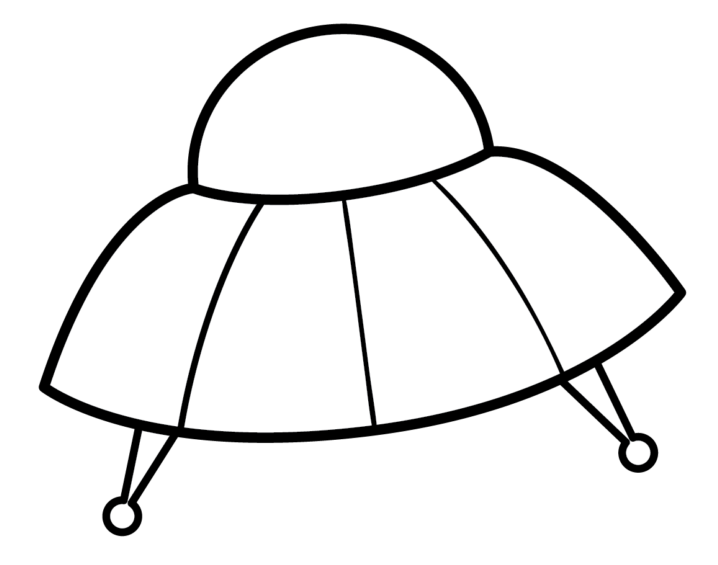
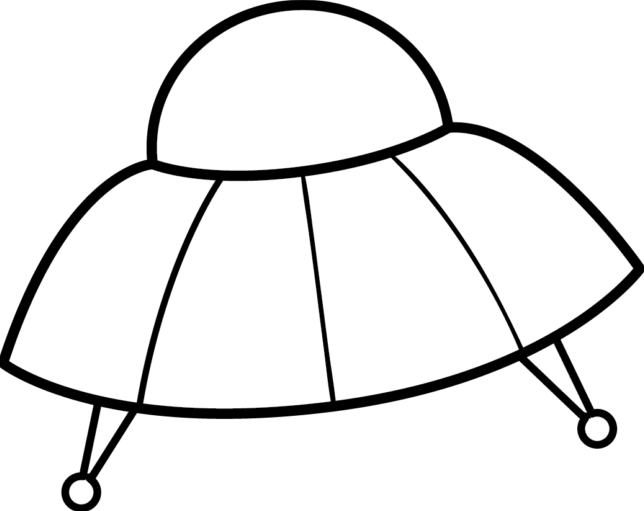
fa 4 e 5 a funcionar com rato

Changed region(s): [[0.0, 0.0, 1.0, 1.0]]

diff --git a/ar_paint.py b/ar_paint.py
@@ -1,12 +1,53 @@
 #!/usr/bin/python3
 import numpy as np
 import cv2
+import argparse
 
 clicking = False
 color = (0, 0, 255) # BGR
-painting = np.ones((565, 718, 3)) * 255  # start with everything white
+painting = np.ones((550, 700, 3)) * 255  # start with everything white
 
 
+# obtain a numbered inverted image, labels and label-color matches
+def load_coloring_image():
+    cImage = cv2.imread("./images/ovni.png", cv2.IMREAD_GRAYSCALE)
+    
+    ret, thresh = cv2.threshold(cImage,0,255,cv2.THRESH_BINARY+cv2.THRESH_OTSU)
+    
+    # use connectedComponentWithStats to find the white areas
+    connectivity = 4
+    output = cv2.connectedComponentsWithStats(thresh, connectivity, cv2.CV_32S)
+
+    num_labels = output[0] # number of labels / areas
+    labels = output[1] # label matrix
+    stats = output[2] # statistics
+    centroids = output[3] # centroid matrix
+    
+    # associate a label with a color
+    colors = [(0, 0, 255), (0, 255, 0), (255, 0, 0)]
+    labelColors = dict()
+    
+    height, width = cImage.shape
+    for i in range(height):
+        for j in range(width):
+            if labels[i][j] not in labelColors.keys():
+                if thresh[i][j] == 0:
+                    labelColors[labels[i][j]] = (0, 0, 0)
+                else:
+                    labelColors[labels[i][j]] = colors[labels[i][j]%3]
+    
+    # write the numbers on the image
+    fontScale = (width * height) / (800 * 800)
+    for i in range(0, len(centroids)):
+        if labelColors[i] != (0,0,0):
+            cv2.putText(cImage,str(i), (int(centroids[i][0]-fontScale*15), int(centroids[i][1]+fontScale*15)), cv2.FONT_HERSHEY_SIMPLEX, fontScale, (0,0,0), 1)
+
+    cImage = cv2.bitwise_not(cImage)
+    
+    return cv2.cvtColor(cImage,cv2.COLOR_GRAY2RGB), labelColors, labels
+
+
+# deal with mouse events
 def mouse_paint(event, x, y, flags, params):
     global clicking, painting
     
@@ -20,57 +61,44 @@ def mouse_paint(event, x, y, flags, params):
         clicking = False
 
 
-# funcionalidade avancada 4
-def load_coloring_image():
-    cImage = cv2.imread( "./images/ovni.png", cv2.IMREAD_GRAYSCALE)
-    
-    _, cImage = cv2.threshold(cImage, 128, 255, cv2.THRESH_BINARY_INV)
-    
-    height, width = cImage.shape
-    
-    areas = set()
-    for i in range(0, height, 20):
-        for j in range(0, width, 20):
-            if cImage[i][j] == 0:
-                image2 = cImage.copy().astype("uint8")
-
-                mask = np.zeros((height+2, width+2), np.uint8)
-                try:
-                    cv2.floodFill(image2, mask, (j,i), 255, 10, 10)
-                except:
-                    print(i)
-                    print(j)
-                
-                image2 = cv2.bitwise_not(image2)
-                areas.add(tuple(image2.reshape((height*width))))
-    
-    print(len(areas))
-    cv2.imshow('Image after Flood Fill with seed 430x30', cImage | image2)
-
-
 def main():
     # -----------------------------------
     # Initialize
     # -----------------------------------
-    global painting, color
+    global painting, color, labels
+    
+    # Define argparse inputs
+    parser = argparse.ArgumentParser(description='Definition of test mode')
+    parser.add_argument('-cim','--coloring_image_mode', action='store_true', help='If present, it will presented a coloring image to paint.', required=False)
+
+    # Parse arguments
+    args = parser.parse_args()
     
     window_name = "Augmented Reality Paint"
     print(window_name)
-
-    # funcionalidade avancada 4
-    #image = load_coloring_image()
     
-    cv2.imshow(window_name, painting)
-    painting = painting.astype(np.uint8)
+    # coloring image mode
+    if args.coloring_image_mode:
+        cImage, labelColors, labels = load_coloring_image()
+        height, width, _ = cImage.shape
+        painting = np.ones((height, width, 3)) * 255
 
+        cv2.imshow(window_name, cv2.subtract(painting, cImage, dtype=cv2.CV_64F))
+    else:
+        cv2.imshow(window_name, painting)
+        
     cv2.setMouseCallback(window_name, mouse_paint)
 
     # -----------------------------------
     # Execution
     # -----------------------------------
     while True:
-        cv2.imshow(window_name, painting)
+        if args.coloring_image_mode:
+            cv2.imshow(window_name, cv2.subtract(painting, cImage, dtype=cv2.CV_64F))
+        else:
+            cv2.imshow(window_name, painting)
 
+        # deal with keyboard events
         key = cv2.waitKey(20)
         if key != -1:
             print("Tecla pressionada: " + str(key))
@@ -84,6 +112,19 @@ def main():
                 color = (255, 0, 0)
                 print('Blue color selected')
             elif key == ord('Q') or key == ord('q') or key == 27: # 27 -> ESC
+                if args.coloring_image_mode:
+                    hits = 0
+                    misses = 0
+                    for i in range(height):
+                        for j in range(width):
+                            rightColor = labelColors[labels[i][j]]
+                            if np.array_equal(painting[i][j], rightColor):
+                                hits += 1
+                            elif rightColor != (0, 0, 0):
+                                misses += 1
+                
+                    print(hits)
+                    print(hits/(hits+misses))
                 print("Quitting")
                 break
     
